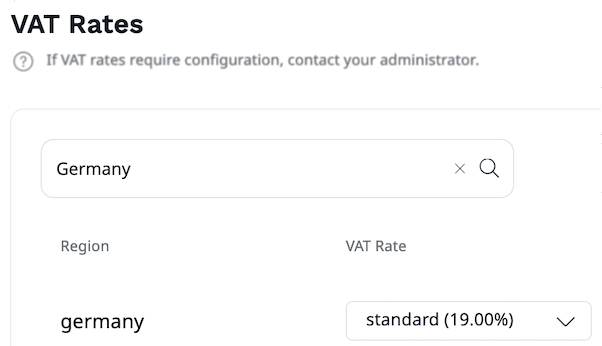
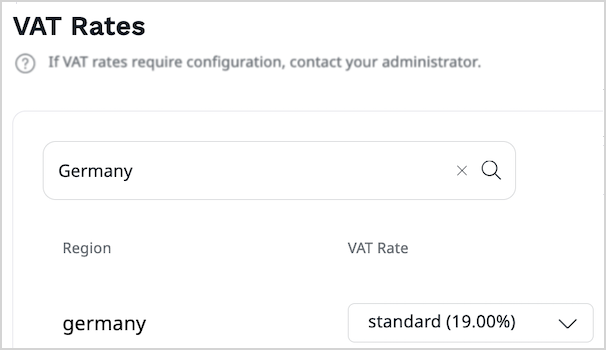
Added Focus mode, changed order, added frames to images

diff --git a/docs/release_notes/ibexa_dxp_v4.6.md b/docs/release_notes/ibexa_dxp_v4.6.md
@@ -23,22 +23,9 @@ description: Ibexa DXP v4.6 brings improvements to Commerce, PIM and Personaliza
 
 The feature set and capabilities of the product remain the same.
 
-### User interface improvements
+### UX and UI improvements
 
 Several improvements to the Back Office interface enhance the user experience.
-
-#### Simplified user actions
-
-Button text now precisely describes actions, so that users who create or edit content understand the purpose of each button.
-
-![Improved button text](img/4.6_publishing_options.png)
-
-#### Draft section added to Content
-
-For streamlining purpose, the **Draft** section is now situated under **Content**.
-Users can now easily find and manage their drafts and published content from one area.
-
-![Draft section added to Content](img/4.6_drafts.png)
 
 #### Customizable dashboard
 
@@ -50,54 +37,6 @@ and helps to make better business decisions based on data.
 ![Customizable dashboard](img/4.6_customizable_dashboard.png)
 
 For more information, see [Customizable dashboard](https://doc.ibexa.co/projects/userguide/en/master/getting_started/discover_ui/#customizable-dashboard).
-
-#### Distraction free mode
-
-While editing Rich Text Fields, user can switch to distraction free mode.
-It expands the workspace to full screen and shows only editor toolbar.
-
-![Distraction free mode](img/4.6_distraction_free_mode.png)
-
-For more information, see [Distraction free mode](https://doc.ibexa.co/projects/userguide/en/master/content_management/create_edit_content_items/#distraction-free-mode).
-
-### UX and UI improvements
-
-#### User avatar and new options in user settings
-
-User can now fully customize their profile in the Back Office with avatar photo and edit profile information by adding:
-
-- Email
-- Department
-- Position
-- Location
-- Signature
-
-New configuration options has beed added to user settings.
-
-For more information, see [user profile and settings documentation]().
-
-#### New tabs order
-
-Tabs are now reordered in Location view by their relevance.
-
-#### Content types got icons
-
-Content type references now have been enhanced with icons which helps users quickly identify different content types in the Back Office sections.
-
-![Content type icons](img/4.6_content_type_icons.png)
-
-#### Improvements in Sub-items
-
-Sub-items are now as separate tab in content items.
-
-![Content type icons](img/4.6_sub_items_tab.png)
-
-
-### Ibexa Image picker
-
-Digital Asset Management is a platform dedicated to editors. It enables storing in central location, organizing, distributing, and sharing media assets across many channels.
-
-For more information see, [link to docs]().
 
 #### Page Builder improvements
 
@@ -127,6 +66,71 @@ and while adding or modifying a Content relation.
 ![Editing embedded Content items](img/4.6_editing_embedded_content_items.png)
 
 For more information, see [Edit embedded Content items](https://doc.ibexa.co/projects/userguide/en/master/content_management/create_edit_content_items/#edit-embedded-content-items).
+
+#### Focus mode
+
+This release brings multiple changes to the Back Office interface, including the Content item details view, which are intended at exposing information and actions that are the most important from the editor's point of view.
+For a detailed list of changes, see [Focus mode](https://doc.ibexa.co/projects/userguide/en/latest/getting_started/discover_ui/#focus-mode).
+
+As part of this effort some other changes were made that apply to both regular and Focus mode:
+
+- **Authors** and **Sub-items** are now separate tabs in Content item details view
+- Former **Details** tab is now called **Technical details** and changed its position
+- Preview is available in many new places, such as a **View** tab in Content item details view, or when you hover over Content items in the Content Tree
+
+![Sub-items tab](img/4.6_sub_items_tab.png "Sub-items tab")
+
+#### Distraction free mode
+
+While editing Rich Text Fields, user can switch to distraction free mode.
+It expands the workspace to full screen and shows only editor toolbar.
+
+![Distraction free mode](img/4.6_distraction_free_mode.png)
+
+For more information, see [Distraction free mode](https://doc.ibexa.co/projects/userguide/en/master/content_management/create_edit_content_items/#distraction-free-mode).
+
+#### Simplified user actions
+
+Button text now precisely describes actions, so that users who create or edit content understand the purpose of each button.
+
+![Improved button text](img/4.6_publishing_options.png)
+
+#### Draft section added to Content
+
+For streamlining purpose, the **Draft** section is now situated under **Content**.
+Users can now easily find and manage their drafts and published content from one area.
+
+![Draft section added to Content](img/4.6_drafts.png)
+
+#### User avatar and new options in user settings
+
+User can now fully customize their profile in the Back Office with avatar photo and edit profile information by adding:
+
+- Email
+- Department
+- Position
+- Location
+- Signature
+
+New configuration options has been added to user settings.
+
+For more information, see [user profile and settings documentation]().
+
+#### New tabs order
+
+Tabs are now reordered in Location view by their relevance.
+
+#### Content types got icons
+
+Content Type references now have been enhanced with icons which helps users quickly identify different content types in the Back Office sections.
+
+![Content type icons](img/4.6_content_type_icons.png)
+
+### Ibexa Image picker
+
+Digital Asset Management is a platform dedicated to editors. It enables storing in central location, organizing, distributing, and sharing media assets across many channels.
+
+For more information see, [link to docs]().
 
 ### New features and improvements in PIM
 
